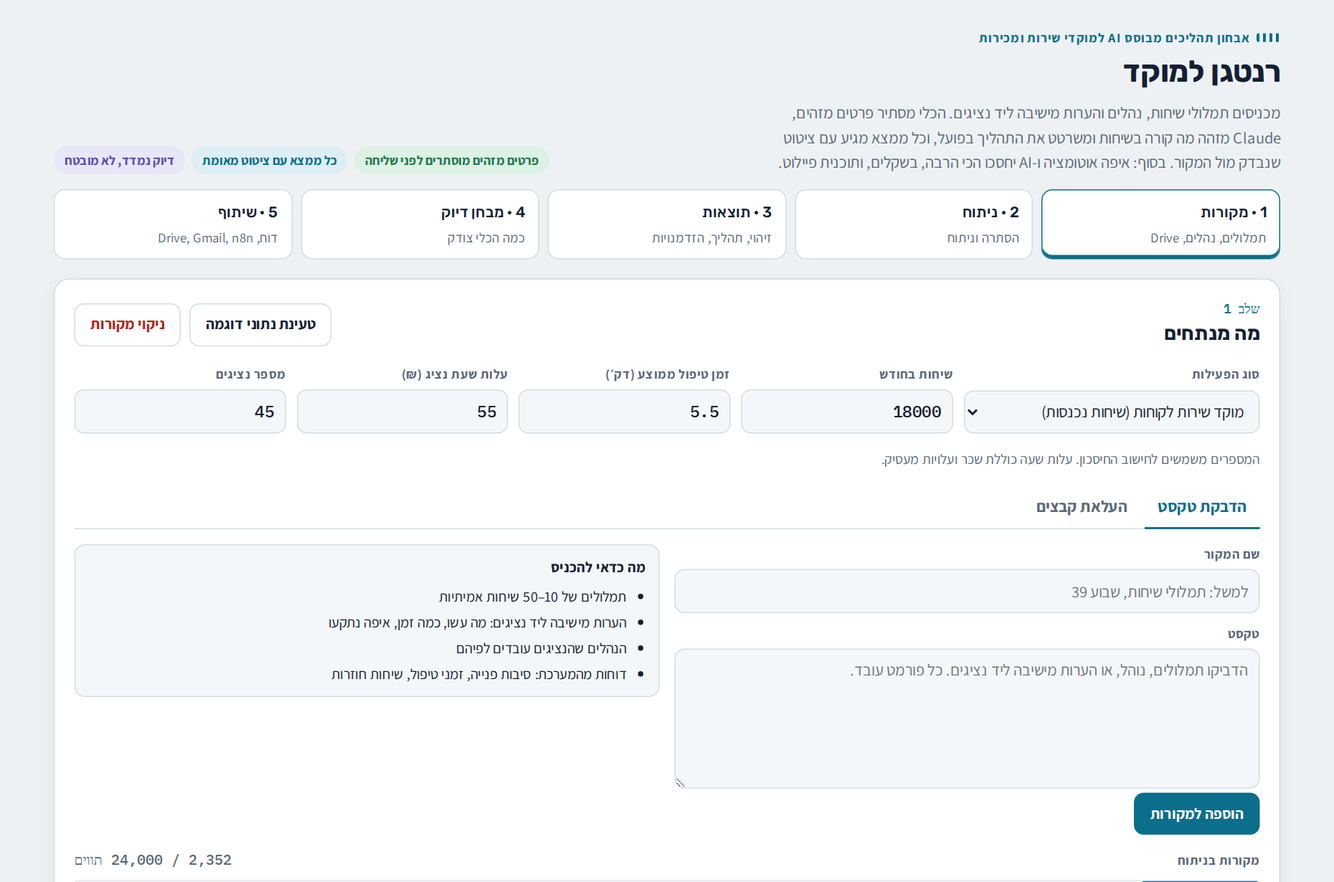
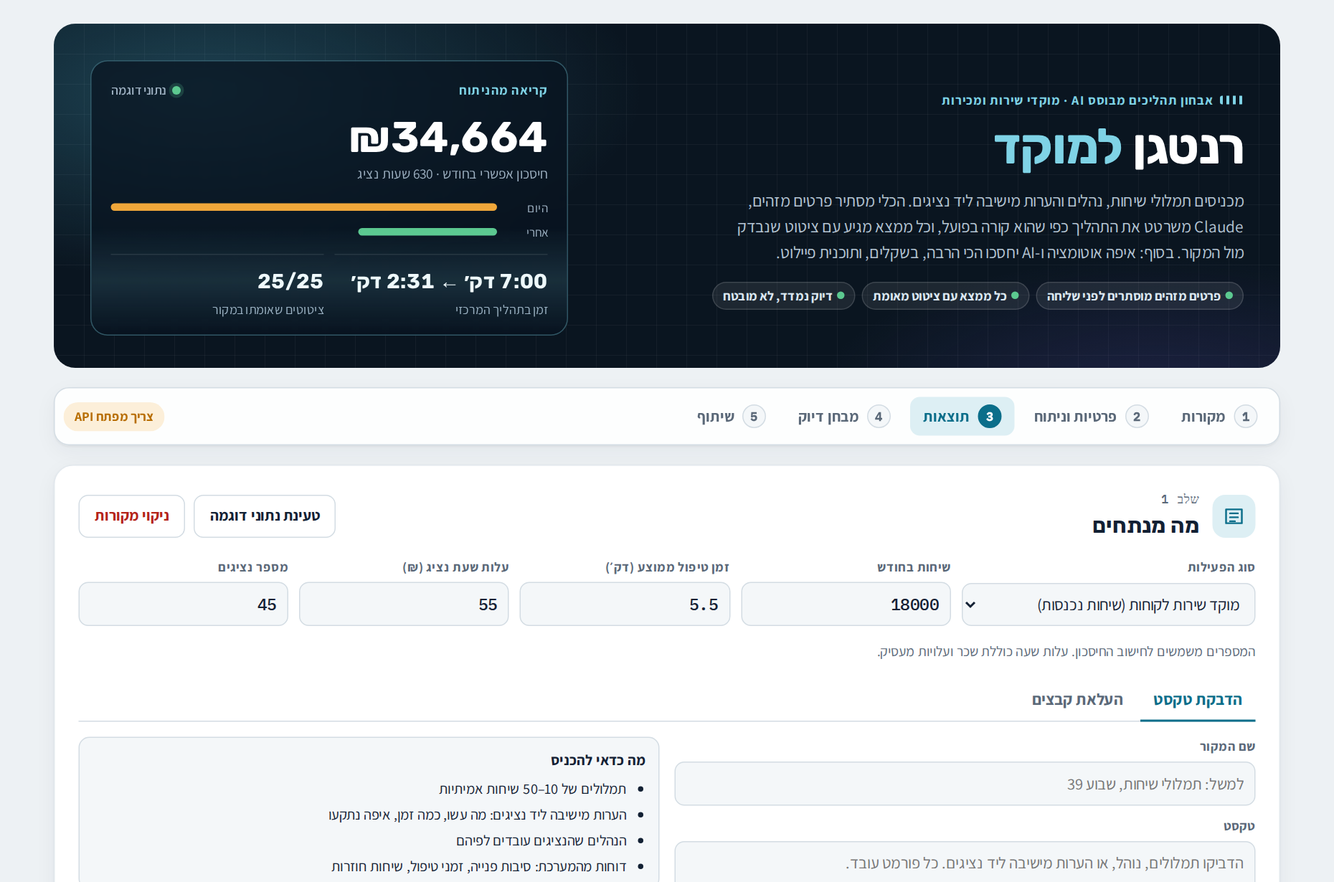
עיצוב חדש: כותרת עם קריאה חיה מהניתוח, סרגל ניווט דביק, אייקונים ודונאט סנטימנט
Claude-Session: https://claude.ai/code/session_01NoNZGB2z2MiKGwQLPAJggP

diff --git a/index.html b/index.html
@@ -223,35 +223,104 @@ footer{font-size:12.5px;color:var(--muted);text-align:center;display:grid;gap:4p
   .src{grid-template-columns:auto 1fr auto}
   .src .size{display:none}
 }
+
+/* ===== v3 visual layer ===== */
+.hero{position:relative;overflow:hidden;border-radius:20px;background:#0A1520;color:#E8F1F8;padding:34px 34px 30px;display:grid;grid-template-columns:minmax(0,1.35fr) minmax(0,1fr);gap:28px;align-items:center;isolation:isolate}
+.hero::before{content:"";position:absolute;inset:0;z-index:-2;background:
+  radial-gradient(60% 90% at 12% 20%,rgba(79,184,212,.28),transparent 60%),
+  radial-gradient(40% 60% at 90% 110%,rgba(91,77,176,.25),transparent 70%),
+  linear-gradient(rgba(255,255,255,.045) 1px,transparent 1px) 0 0/28px 28px,
+  linear-gradient(90deg,rgba(255,255,255,.045) 1px,transparent 1px) 0 0/28px 28px}
+.hero .film{color:#7FD3E6}
+.hero .film i{background:repeating-linear-gradient(90deg,#7FD3E6 0 3px,transparent 3px 6px)}
+.hero h1{font-size:46px;line-height:1.05;margin-top:10px;color:#FFFFFF;letter-spacing:-.02em}
+.hero h1 span{color:#7FD3E6}
+.hero p{color:#B6C6D5;max-width:60ch;margin-top:12px;font-size:15.5px}
+.hero .trust{margin-top:16px}
+.hero .trust .chip{background:rgba(255,255,255,.08);border:1px solid rgba(255,255,255,.14);color:#DCE8F2}
+.hero .trust .chip::before{content:"";width:7px;height:7px;border-radius:50%;background:#5CC990}
+.readout{position:relative;border:1px solid rgba(127,211,230,.35);border-radius:16px;background:rgba(8,20,32,.72);padding:18px 18px 14px;display:grid;gap:12px;overflow:hidden;backdrop-filter:blur(4px)}
+.readout::after{content:"";position:absolute;inset:0 0 auto 0;height:40%;background:linear-gradient(180deg,rgba(127,211,230,0),rgba(127,211,230,.14),rgba(127,211,230,0));animation:scan 4.5s ease-in-out infinite;pointer-events:none}
+@keyframes scan{0%{transform:translateY(-100%)}60%,100%{transform:translateY(260%)}}
+.readout .rh{display:flex;justify-content:space-between;align-items:center;font-size:12px;font-weight:700;letter-spacing:.06em;color:#7FD3E6}
+.readout .rh .live{display:inline-flex;align-items:center;gap:6px;color:#9FB2C3;font-weight:600;letter-spacing:0}
+.readout .rh .live::before{content:"";width:8px;height:8px;border-radius:50%;background:#5CC990;box-shadow:0 0 0 3px rgba(92,201,144,.2)}
+.ro-main{display:grid;gap:2px}
+.ro-main b{font-family:"Rubik",sans-serif;font-size:40px;line-height:1.1;color:#FFFFFF;font-variant-numeric:tabular-nums}
+.ro-main span{font-size:13px;color:#9FB2C3}
+.ro-row{display:grid;grid-template-columns:1fr 1fr;gap:10px}
+.ro-row div{border-top:1px solid rgba(255,255,255,.1);padding-top:10px;display:grid;gap:2px}
+.ro-row b{font-family:"Rubik",sans-serif;font-size:19px;color:#FFFFFF;font-variant-numeric:tabular-nums}
+.ro-row span{font-size:12px;color:#9FB2C3}
+.ro-bars{display:grid;gap:5px}
+.ro-bars div{display:grid;grid-template-columns:3.4em 1fr;gap:8px;align-items:center;font-size:11.5px;color:#9FB2C3}
+.ro-bars i{display:block;height:7px;border-radius:4px}
+@media (prefers-reduced-motion: reduce){.readout::after{animation:none;opacity:0}}
+
+.navbar{position:sticky;top:env(safe-area-inset-top,0px);z-index:20;display:flex;gap:6px;align-items:center;padding:8px;border-radius:14px;background:color-mix(in srgb,var(--surface) 88%,transparent);backdrop-filter:blur(10px);border:1px solid var(--line);box-shadow:var(--shadow);overflow-x:auto;scrollbar-width:none}
+.navbar::-webkit-scrollbar{display:none}
+.navbar a{display:inline-flex;align-items:center;gap:8px;white-space:nowrap;text-decoration:none;color:var(--muted);font-weight:700;font-size:14px;padding:7px 12px;border-radius:9px}
+.navbar a i{font-style:normal;display:grid;place-items:center;width:22px;height:22px;border-radius:50%;background:var(--surface-2);border:1px solid var(--line);font-family:"IBM Plex Mono",monospace;font-size:11.5px;color:var(--muted)}
+.navbar a:hover{color:var(--ink)}
+.navbar a.on{background:var(--accent-soft);color:var(--accent)}
+.navbar a.on i{background:var(--accent);border-color:var(--accent);color:var(--accent-ink)}
+.navbar .spacer{flex:1}
+.navbar .chip{flex:none}
+
+.panel{border-radius:18px;padding:22px;border-color:var(--line-2)}
+.shead{display:flex;align-items:center;gap:12px}
+.shead .ico{flex:none;width:40px;height:40px;border-radius:12px;display:grid;place-items:center;background:var(--accent-soft);color:var(--accent)}
+.shead .ico svg{width:22px;height:22px}
+.shead .num{font-family:"IBM Plex Mono",monospace;font-size:11.5px;color:var(--muted);display:block;letter-spacing:.04em}
+.shead h2{font-size:20px}
+.btn{transition:transform .12s ease,box-shadow .12s ease,border-color .12s ease}
+.btn.primary:hover{box-shadow:0 4px 14px color-mix(in srgb,var(--accent) 35%,transparent);transform:translateY(-1px)}
+@media (prefers-reduced-motion: reduce){.btn{transition:none}.btn.primary:hover{transform:none}}
+.kpi{border-radius:14px;position:relative}
+.kpi .ic{position:absolute;top:12px;left:12px;width:28px;height:28px;border-radius:8px;display:grid;place-items:center;background:var(--surface-2);color:var(--muted)}
+.kpi .ic svg{width:16px;height:16px}
+.scanbar{position:relative;height:6px;border-radius:999px;background:var(--surface-2);overflow:hidden}
+.scanbar::after{content:"";position:absolute;top:0;bottom:0;width:30%;border-radius:999px;background:linear-gradient(90deg,transparent,var(--accent),transparent);animation:sb 1.6s ease-in-out infinite}
+@keyframes sb{from{right:-30%}to{right:100%}}
+@media (prefers-reduced-motion: reduce){.scanbar::after{animation:none;right:35%}}
+.donut{display:grid;grid-template-columns:auto 1fr;gap:16px;align-items:center}
+.donut .legend{display:grid;gap:6px}
+.opp{border-radius:14px;transition:border-color .15s}
+.opp[open]{border-color:color-mix(in srgb,var(--accent) 45%,var(--line))}
+.cat-ic{display:inline-grid;place-items:center;width:18px;height:18px}
+.cat-ic svg{width:14px;height:14px}
+@media (max-width:980px){.hero{grid-template-columns:1fr;padding:26px}.hero h1{font-size:36px}}
+@media (max-width:680px){.hero{padding:22px 18px;border-radius:16px}.hero h1{font-size:30px}.ro-main b{font-size:32px}.panel{padding:16px}}
 </style>
 
 <div class="wrap">
-  <header class="top">
-    <div class="brand">
-      <div>
-        <span class="film"><i></i>אבחון תהליכים מבוסס AI למוקדי שירות ומכירות</span>
-        <h1>רנטגן למוקד</h1>
-        <p>מכניסים תמלולי שיחות, נהלים והערות מישיבה ליד נציגים. הכלי מסתיר פרטים מזהים, Claude מזהה מה קורה בשיחות ומשרטט את התהליך בפועל, וכל ממצא מגיע עם ציטוט שנבדק מול המקור. בסוף: איפה אוטומציה ו-AI יחסכו הכי הרבה, בשקלים, ותוכנית פיילוט.</p>
-      </div>
+  <header class="hero">
+    <div>
+      <span class="film"><i></i>אבחון תהליכים מבוסס AI · מוקדי שירות ומכירות</span>
+      <h1>רנטגן <span>למוקד</span></h1>
+      <p>מכניסים תמלולי שיחות, נהלים והערות מישיבה ליד נציגים. הכלי מסתיר פרטים מזהים, Claude משרטט את התהליך כפי שהוא קורה בפועל, וכל ממצא מגיע עם ציטוט שנבדק מול המקור. בסוף: איפה אוטומציה ו-AI יחסכו הכי הרבה, בשקלים, ותוכנית פיילוט.</p>
       <div class="trust" aria-label="עקרונות">
-        <span class="chip good">פרטים מזהים מוסתרים לפני שליחה</span>
-        <span class="chip acc">כל ממצא עם ציטוט מאומת</span>
-        <span class="chip vio">דיוק נמדד, לא מובטח</span>
+        <span class="chip">פרטים מזהים מוסתרים לפני שליחה</span>
+        <span class="chip">כל ממצא עם ציטוט מאומת</span>
+        <span class="chip">דיוק נמדד, לא מובטח</span>
       </div>
     </div>
-    <nav class="steps" aria-label="שלבים">
-      <a href="#s-sources"><b>1 · מקורות</b><span>תמלולים, נהלים, Drive</span></a>
-      <a href="#s-run"><b>2 · ניתוח</b><span>הסתרה וניתוח</span></a>
-      <a href="#s-results" class="on"><b>3 · תוצאות</b><span>זיהוי, תהליך, הזדמנויות</span></a>
-      <a href="#s-eval"><b>4 · מבחן דיוק</b><span>כמה הכלי צודק</span></a>
-      <a href="#s-export"><b>5 · שיתוף</b><span>דוח, Drive, Gmail, n8n</span></a>
-    </nav>
+    <div class="readout" aria-live="polite" id="readout"></div>
   </header>
+  <nav class="navbar" aria-label="שלבים">
+    <a href="#s-sources"><i>1</i>מקורות</a>
+    <a href="#s-run"><i>2</i>פרטיות וניתוח</a>
+    <a href="#s-results" class="on"><i>3</i>תוצאות</a>
+    <a href="#s-eval"><i>4</i>מבחן דיוק</a>
+    <a href="#s-export"><i>5</i>שיתוף</a>
+    <span class="spacer"></span>
+    <span class="chip" id="ai-status">בודק חיבור…</span>
+  </nav>
 
   <!-- 1. SOURCES -->
   <section class="panel" id="s-sources" aria-labelledby="h-src">
     <div class="phead">
-      <div><span class="num">שלב 1</span><h2 id="h-src">מה מנתחים</h2></div>
+      <div class="shead"><span class="ico" aria-hidden="true"><svg viewBox="0 0 24 24" fill="none" stroke="currentColor" stroke-width="1.8" stroke-linecap="round" stroke-linejoin="round"><path d="M4 5h16v14H4z"/><path d="M8 9h8M8 13h8M8 17h5"/></svg></span><div><span class="num">שלב 1</span><h2 id="h-src">מה מנתחים</h2></div></div>
       <div class="row"><button class="btn ghost" id="load-demo">טעינת נתוני דוגמה</button><button class="btn ghost danger" id="clear-src">ניקוי מקורות</button></div>
     </div>
     <div class="profile">
@@ -323,7 +392,7 @@ footer{font-size:12.5px;color:var(--muted);text-align:center;display:grid;gap:4p
 
   <!-- 2. RUN -->
   <section class="panel" id="s-run" aria-labelledby="h-run">
-    <div class="phead"><div><span class="num">שלב 2</span><h2 id="h-run">הגנה על פרטיות וניתוח</h2></div><span class="chip" id="ai-status">בודק חיבור…</span></div>
+    <div class="phead"><div class="shead"><span class="ico" aria-hidden="true"><svg viewBox="0 0 24 24" fill="none" stroke="currentColor" stroke-width="1.8" stroke-linecap="round" stroke-linejoin="round"><path d="M12 3l8 3v6c0 5-3.5 8-8 9-4.5-1-8-4-8-9V6z"/><path d="M9 12l2 2 4-4"/></svg></span><div><span class="num">שלב 2</span><h2 id="h-run">הגנה על פרטיות וניתוח</h2></div></div></div>
 
     <div class="shield">
       <div class="phead">
@@ -360,7 +429,7 @@ footer{font-size:12.5px;color:var(--muted);text-align:center;display:grid;gap:4p
 
   <!-- 3. RESULTS -->
   <section class="panel" id="s-results" aria-labelledby="h-res">
-    <div class="phead"><div><span class="num">שלב 3</span><h2 id="h-res">תוצאות</h2></div><span class="chip" id="res-when"></span></div>
+    <div class="phead"><div class="shead"><span class="ico" aria-hidden="true"><svg viewBox="0 0 24 24" fill="none" stroke="currentColor" stroke-width="1.8" stroke-linecap="round" stroke-linejoin="round"><path d="M4 20V10M10 20V4M16 20v-7M22 20H2"/></svg></span><div><span class="num">שלב 3</span><h2 id="h-res">תוצאות</h2></div></div><span class="chip" id="res-when"></span></div>
     <div class="banner" id="demo-banner"><span><b>ניתוח לדוגמה.</b> תוצאה על נתוני דמו של מוקד תמיכה לספק אינטרנט. הריצו ניתוח על המקורות שלכם כדי לקבל תוצאה אמיתית.</span></div>
     <div class="rtabs" role="tablist" aria-label="תוצאות">
       <button role="tab" data-r="sum" aria-selected="true">תמונת מצב</button>
@@ -392,7 +461,7 @@ footer{font-size:12.5px;color:var(--muted);text-align:center;display:grid;gap:4p
 
   <!-- 4. EVAL -->
   <section class="panel" id="s-eval" aria-labelledby="h-eval">
-    <div class="phead"><div><span class="num">שלב 4</span><h2 id="h-eval">מבחן דיוק</h2></div><span class="chip" id="eval-size"></span></div>
+    <div class="phead"><div class="shead"><span class="ico" aria-hidden="true"><svg viewBox="0 0 24 24" fill="none" stroke="currentColor" stroke-width="1.8" stroke-linecap="round" stroke-linejoin="round"><circle cx="12" cy="12" r="8"/><circle cx="12" cy="12" r="4"/><circle cx="12" cy="12" r="1"/></svg></span><div><span class="num">שלב 4</span><h2 id="h-eval">מבחן דיוק</h2></div></div><span class="chip" id="eval-size"></span></div>
     <p>לפני שסומכים על הכלי, בודקים אותו: הכלי מסווג שיחות שכבר ידוע מה הסיווג הנכון שלהן, ומודד כמה פעמים צדק. יש מאגר מובנה של שיחות דמו מתויגות, ואפשר להעלות מאגר משלכם.</p>
     <div class="row">
       <button class="btn primary" id="eval-run">הרצת מבחן</button>
@@ -406,7 +475,7 @@ footer{font-size:12.5px;color:var(--muted);text-align:center;display:grid;gap:4p
 
   <!-- 5. EXPORT -->
   <section class="panel" id="s-export" aria-labelledby="h-exp">
-    <div class="phead"><div><span class="num">שלב 5</span><h2 id="h-exp">שיתוף והמשך עבודה</h2></div></div>
+    <div class="phead"><div class="shead"><span class="ico" aria-hidden="true"><svg viewBox="0 0 24 24" fill="none" stroke="currentColor" stroke-width="1.8" stroke-linecap="round" stroke-linejoin="round"><path d="M12 3v12M7 10l5 5 5-5"/><path d="M4 17v3h16v-3"/></svg></span><div><span class="num">שלב 5</span><h2 id="h-exp">שיתוף והמשך עבודה</h2></div></div></div>
     <div class="exp">
       <div class="card">
         <h3>דוח מנהלים, עמוד אחד</h3>
@@ -805,7 +874,7 @@ $('run').onclick = async () => {
   const prep = preparedSources();
   runCtl = new AbortController(); const t0 = Date.now();
   $('run').disabled = true; $('stop').hidden = false;
-  $('run-state').innerHTML = `<div class="row"><span class="pulse"></span><b id="run-phase">${prep.on ? 'פרטים מזהים הוסתרו. ' : ''}Claude קורא את המקורות…</b><span class="mono small muted" id="run-el">0 שנ׳</span></div><div class="stream" id="run-stream"></div>`;
+  $('run-state').innerHTML = `<div class="row"><span class="pulse"></span><b id="run-phase">${prep.on ? 'פרטים מזהים הוסתרו. ' : ''}Claude קורא את המקורות…</b><span class="mono small muted" id="run-el">0 שנ׳</span></div><div class="scanbar" aria-hidden="true"></div><div class="stream" id="run-stream"></div>`;
   runTimer = setInterval(() => { const el = $('run-el'); if(el) el.textContent = Math.round((Date.now()-t0)/1000) + ' שנ׳'; }, 1000);
   try{
     const a = await llm.json(analysisPrompt(prep), { tier:'complex', signal: runCtl.signal,
@@ -850,8 +919,15 @@ function evidenceHtml(evs){
 /* ================= results ================= */
 document.querySelectorAll('.rtabs button').forEach(b => b.onclick = () => showR(b.dataset.r));
 function showR(r){ document.querySelectorAll('.rtabs button').forEach(x => x.setAttribute('aria-selected', x.dataset.r === r)); document.querySelectorAll('[data-rp]').forEach(p => p.hidden = p.dataset.rp !== r); }
+function renderReadout(a){
+  const t = totals(a), v = verifyAll(a), b = sumSec(a.process.steps), af = sumSec(a.to_be.steps), mx = Math.max(b, af, 1);
+  $('readout').innerHTML = `<div class="rh"><span>קריאה מהניתוח</span><span class="live">${state.isDemo ? 'נתוני דוגמה' : 'ניתוח אחרון'}</span></div>
+    <div class="ro-main"><b class="mono">${ils(t.ils)}</b><span>חיסכון אפשרי בחודש · ${nf.format(Math.round(t.hrs))} שעות נציג</span></div>
+    ${af ? `<div class="ro-bars"><div><span>היום</span><i style="width:100%;background:#F0A73A"></i></div><div><span>אחרי</span><i style="width:${Math.round(af/mx*100)}%;background:#5CC990"></i></div></div>` : ''}
+    <div class="ro-row"><div><b>${af ? fmtSec(b)+' ← '+fmtSec(af) : fmtSec(b)}</b><span>זמן בתהליך המרכזי</span></div><div><b>${v.ok}/${v.total}</b><span>ציטוטים שאומתו במקור</span></div></div>`;
+}
 function renderResults(){
-  const a = state.analysis;
+  const a = state.analysis; renderReadout(a);
   $('demo-banner').hidden = !state.isDemo;
   $('res-when').textContent = state.isDemo ? 'נתוני דוגמה' : ('נותח ' + new Date(state.when).toLocaleString('he-IL', {dateStyle:'short', timeStyle:'short'}));
   renderSum(a); renderDet(a); renderProc(a); renderOpp(a); renderPilot(a); renderChatSugg();
@@ -863,10 +939,10 @@ function renderSum(a){
   $('r-sum').innerHTML = `<div style="display:grid;gap:16px">
     <p class="lead">${esc(a.summary)}</p>
     <div class="kpis">
-      <div class="kpi"><span class="label">חיסכון אפשרי בחודש</span><span class="n good mono">${ils(t.ils)}</span><span class="d">${nf.format(Math.round(t.hrs))} שעות נציג · ${t.fte.toFixed(1)} משרות</span></div>
-      <div class="kpi"><span class="label">זמן בתהליך המרכזי</span><span class="n mono">${af ? fmtSec(b) + ' ← ' + fmtSec(af) : fmtSec(b)}</span><span class="d">${af && b ? `${Math.round((1-af/b)*100)}% פחות אחרי האוטומציות` : 'לפני האוטומציות'}</span></div>
-      <div class="kpi"><span class="label">הזדמנויות שזוהו</span><span class="n mono">${a.opportunities.length}</span><span class="d">${a.opportunities.filter(o=>o.effort<=2&&o.impact>=4).length} מהן ניצחונות מהירים</span></div>
-      <div class="kpi"><span class="label">ציטוטים שאומתו במקור</span><span class="n mono ${v.total && v.ok===v.total?'good':''}">${v.ok}/${v.total}</span><span class="d">כל ממצא נבדק מול הטקסט</span></div>
+      <div class="kpi"><span class="ic" aria-hidden="true"><svg viewBox="0 0 24 24" fill="none" stroke="currentColor" stroke-width="1.8" stroke-linecap="round" stroke-linejoin="round"><path d="M3 7h18v10H3z"/><circle cx="12" cy="12" r="2.5"/></svg></span><span class="label">חיסכון אפשרי בחודש</span><span class="n good mono">${ils(t.ils)}</span><span class="d">${nf.format(Math.round(t.hrs))} שעות נציג · ${t.fte.toFixed(1)} משרות</span></div>
+      <div class="kpi"><span class="ic" aria-hidden="true"><svg viewBox="0 0 24 24" fill="none" stroke="currentColor" stroke-width="1.8" stroke-linecap="round" stroke-linejoin="round"><circle cx="12" cy="12" r="8"/><path d="M12 8v4l3 2"/></svg></span><span class="label">זמן בתהליך המרכזי</span><span class="n mono">${af ? fmtSec(b) + ' ← ' + fmtSec(af) : fmtSec(b)}</span><span class="d">${af && b ? `${Math.round((1-af/b)*100)}% פחות אחרי האוטומציות` : 'לפני האוטומציות'}</span></div>
+      <div class="kpi"><span class="ic" aria-hidden="true"><svg viewBox="0 0 24 24" fill="none" stroke="currentColor" stroke-width="1.8" stroke-linecap="round" stroke-linejoin="round"><path d="M9 18h6M10 21h4"/><path d="M12 3a6 6 0 0 0-3.5 10.9V16h7v-2.1A6 6 0 0 0 12 3z"/></svg></span><span class="label">הזדמנויות שזוהו</span><span class="n mono">${a.opportunities.length}</span><span class="d">${a.opportunities.filter(o=>o.effort<=2&&o.impact>=4).length} מהן ניצחונות מהירים</span></div>
+      <div class="kpi"><span class="ic" aria-hidden="true"><svg viewBox="0 0 24 24" fill="none" stroke="currentColor" stroke-width="1.8" stroke-linecap="round" stroke-linejoin="round"><path d="M4 12l5 5L20 6"/></svg></span><span class="label">ציטוטים שאומתו במקור</span><span class="n mono ${v.total && v.ok===v.total?'good':''}">${v.ok}/${v.total}</span><span class="d">כל ממצא נבדק מול הטקסט</span></div>
     </div>
     <div style="display:grid;gap:10px"><h3>שלוש ההזדמנויות המובילות</h3>
       <div class="top3">${ranked.map((o,i) => { const r = roi(o); return `<div class="card"><span class="rank">${i+1} · ${esc(o.category||'')}</span><b>${esc(o.title)}</b><p class="small muted">${esc(o.description)}</p><span class="mono" style="color:var(--good);font-weight:700">${r.ils ? ils(r.ils)+' בחודש' : esc(o.roi_note || 'חיסכון מחוץ לזמן השיחה')}</span></div>`; }).join('')}</div>
@@ -874,6 +950,13 @@ function renderSum(a){
     ${a.data_gaps.length ? `<div class="msg warn"><b>מה חסר כדי לדייק:</b> ${a.data_gaps.map(esc).join(' · ')}</div>` : ''}
     <p class="note">החישוב: שיחות בחודש × אחוז השיחות שההזדמנות נוגעת בהן × שניות שנחסכות × עלות שעה. שינוי המספרים בשלב 1 מעדכן אותו מיד. חלק מההזדמנויות חופפות, ולכן הסכום הוא גבול עליון.</p>
   </div>`;
+}
+function donut(s){
+  const parts = [[+s.positive_pct||0,'var(--good)','חיובי'],[+s.neutral_pct||0,'var(--line)','ניטרלי'],[+s.negative_pct||0,'var(--crit)','שלילי']];
+  const tot = parts.reduce((n,p)=>n+p[0],0) || 1, R = 38, C = 2*Math.PI*R; let off = 0;
+  const arcs = parts.map(p => { const len = p[0]/tot*C; const el = `<circle cx="50" cy="50" r="${R}" fill="none" stroke="${p[1]}" stroke-width="16" stroke-dasharray="${len} ${C-len}" stroke-dashoffset="${-off}" transform="rotate(-90 50 50)"/>`; off += len; return el; }).join('');
+  return `<div class="donut"><svg width="104" height="104" viewBox="0 0 100 100" role="img" aria-label="שלילי ${parts[2][0]} אחוז">${arcs}<text x="50" y="48" text-anchor="middle" font-size="17" font-weight="700" font-family="Rubik,sans-serif" fill="var(--crit)">${parts[2][0]}%</text><text x="50" y="63" text-anchor="middle" font-size="9.5" fill="var(--muted)">שלילי</text></svg>
+    <div class="legend">${parts.map(p => `<span style="--c:${p[1]}">${p[2]} ${p[0]}%</span>`).join('')}</div></div>`;
 }
 function renderDet(a){
   const maxS = Math.max(1, ...a.intents.map(i => +i.share_pct||0)), s = a.sentiment;
@@ -886,8 +969,7 @@ function renderDet(a){
         ${a.intents.filter(i=>i.note).map(i => `<div class="small"><b>${esc(i.name)}:</b> <span class="muted">${esc(i.note)}</span></div>`).join('')}
       </div>
       <div style="display:grid;gap:8px"><h3>מצב רוח הלקוחות</h3>
-        <div class="stack"><i style="width:${+s.positive_pct||0}%;background:var(--good)"></i><i style="width:${+s.neutral_pct||0}%;background:var(--line)"></i><i style="width:${+s.negative_pct||0}%;background:var(--crit)"></i></div>
-        <div class="legend"><span style="--c:var(--good)">חיובי ${esc(s.positive_pct??'–')}%</span><span style="--c:var(--line)">ניטרלי ${esc(s.neutral_pct??'–')}%</span><span style="--c:var(--crit)">שלילי ${esc(s.negative_pct??'–')}%</span></div>
+        ${donut(s)}
         <h3 style="margin-top:10px">שאלות שחוזרות על עצמן</h3>
         <ul class="list">${a.repeated_questions.map(q => `<li><span class="chip ${q.has_procedure?'good':'amb'}">${q.has_procedure?'יש נוהל':'אין נוהל'}</span><span>"${esc(q.q)}"</span><span class="mono small muted">${esc(q.count)} פעמים</span></li>`).join('')}</ul>
         <p class="note">שאלה שחוזרת ויש לה נוהל מתאימה לעוזר ידע או לבוט. שאלה בלי נוהל היא נוהל שצריך לכתוב.</p>
@@ -1185,8 +1267,8 @@ $('to-gmail').onclick = async () => {
 
 /* ================= nav & boot ================= */
 const secIds = ['s-sources','s-run','s-results','s-eval','s-export'];
-if('IntersectionObserver' in window){ const io = new IntersectionObserver(es => es.forEach(en => { if(en.isIntersecting){ const k = secIds.indexOf(en.target.id); document.querySelectorAll('.steps a').forEach((a,i) => a.classList.toggle('on', i===k)); } }), {rootMargin:'-40% 0px -55% 0px'}); secIds.forEach(id => io.observe($(id))); }
-['p-calls','p-aht','p-cost','p-agents','p-type'].forEach(id => $(id).addEventListener('input', () => { renderSum(state.analysis); renderOpp(state.analysis); saveLocal(); }));
+if('IntersectionObserver' in window){ const io = new IntersectionObserver(es => es.forEach(en => { if(en.isIntersecting){ const k = secIds.indexOf(en.target.id); document.querySelectorAll('.navbar a').forEach((a,i) => a.classList.toggle('on', i===k)); } }), {rootMargin:'-40% 0px -55% 0px'}); secIds.forEach(id => io.observe($(id))); }
+['p-calls','p-aht','p-cost','p-agents','p-type'].forEach(id => $(id).addEventListener('input', () => { renderReadout(state.analysis); renderSum(state.analysis); renderOpp(state.analysis); saveLocal(); }));
 function setAiStatus(){
   const el = $('ai-status');
   if(caps.sample){ el.className = 'chip good'; el.textContent = 'מחובר ל-Claude'; }
